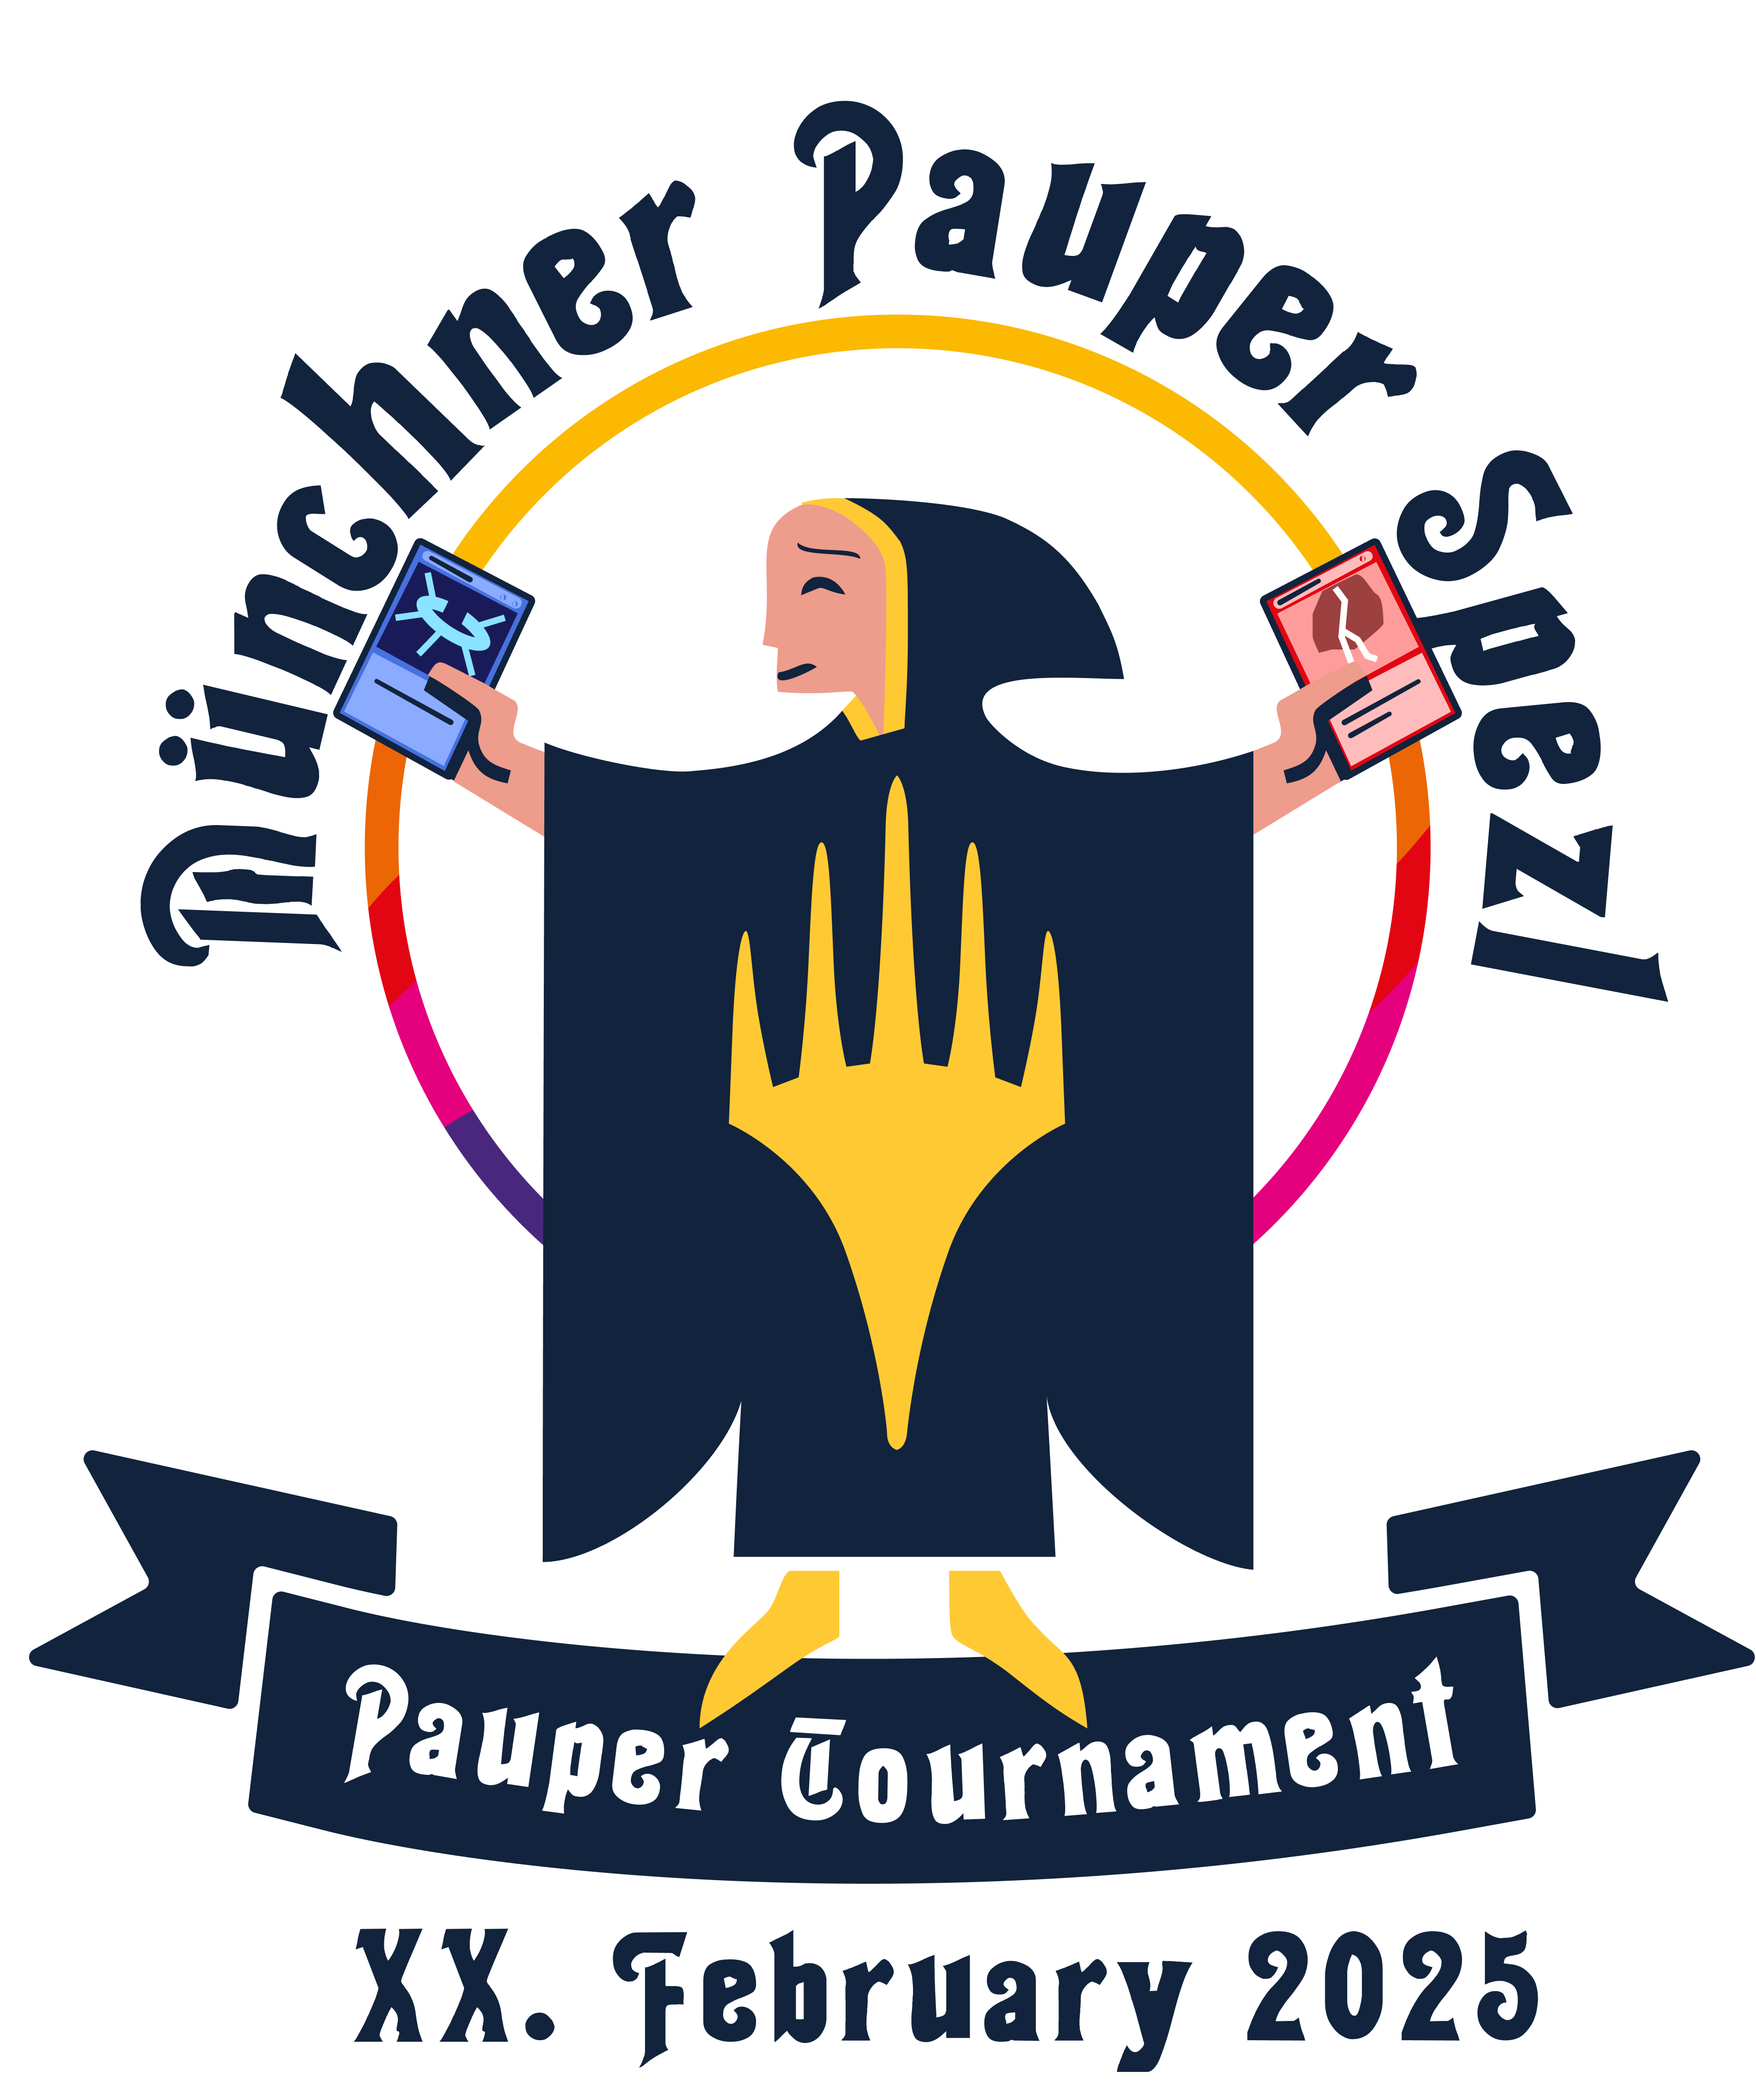
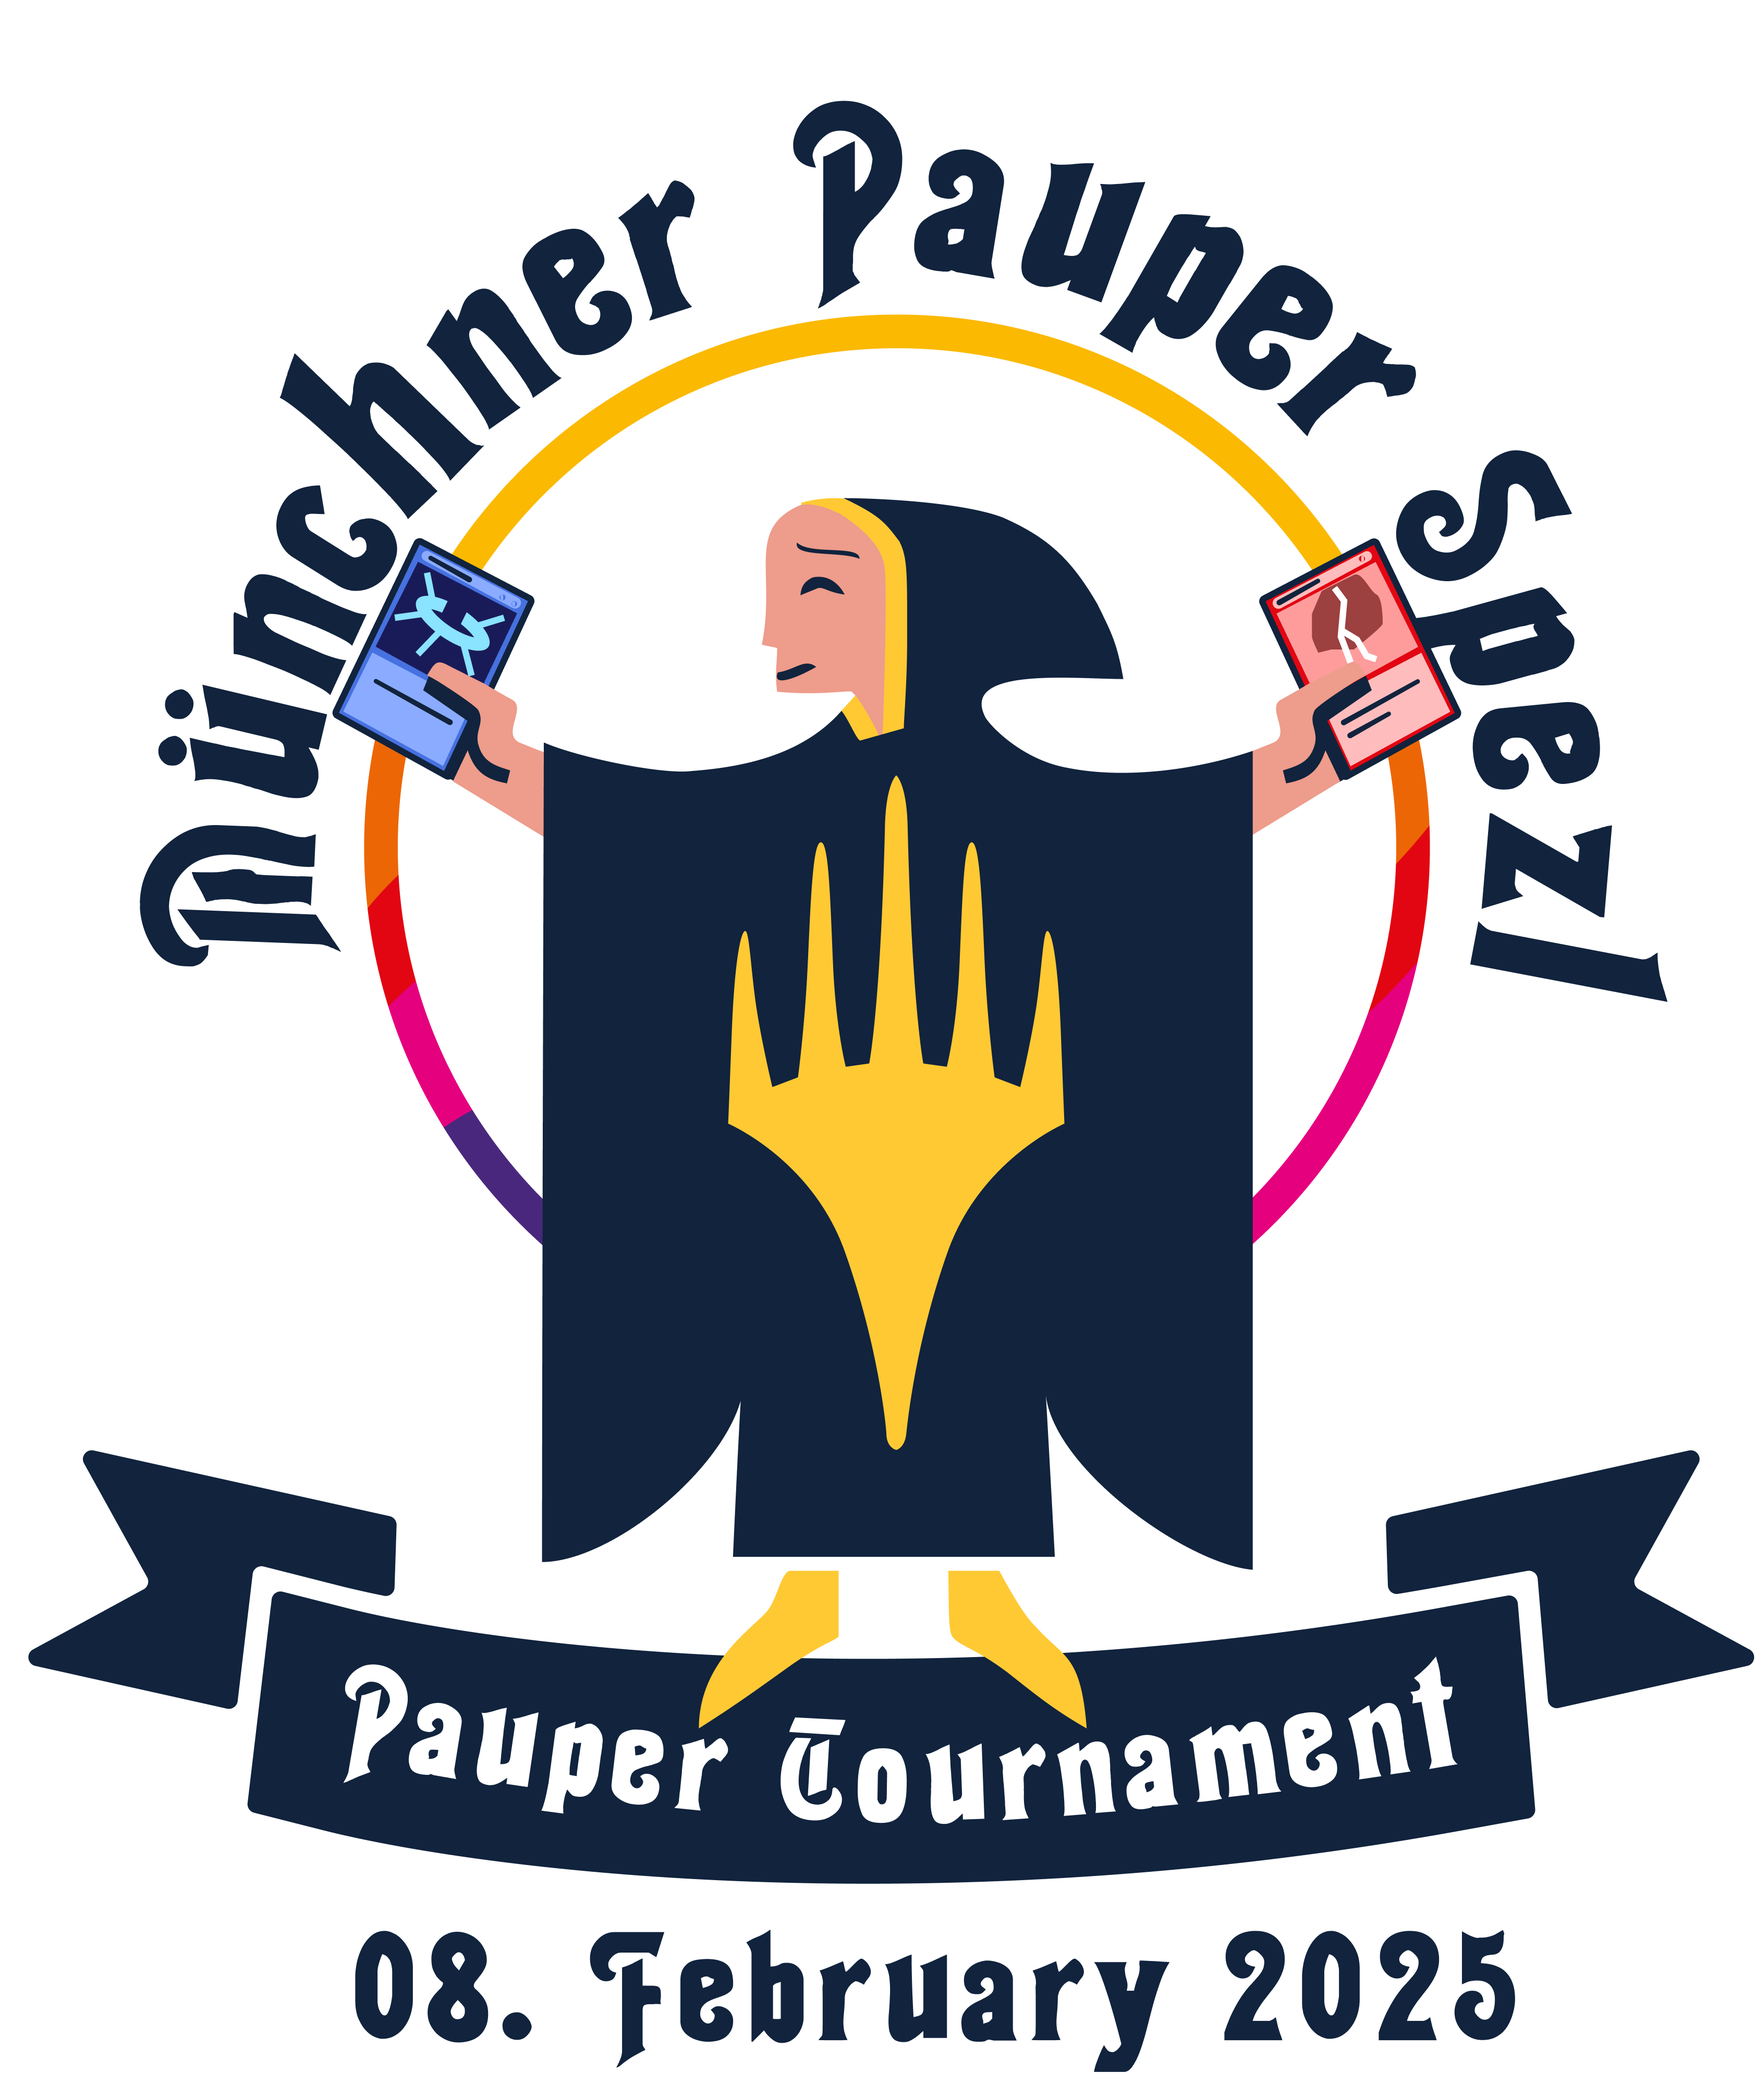
date added

Changed region(s): [[0.3429, 0.9062, 0.8729, 1.0], [0.1871, 0.9062, 0.3118, 1.0], [0.717, 0.2812, 0.7482, 0.3125]]

diff --git a/index.html b/index.html
@@ -4,18 +4,18 @@
 <head>
     <meta charset="UTF-8">
     <meta name="viewport" content="width=device-width, initial-scale=1.0">
-    <title>Magic: The Gathering™ Pauper Tournament on XX. February 2025</title>
-    <meta name="title" content="Magic: The Gathering™ Pauper Tournament on XX. February 2025" />
+    <title>Magic: The Gathering™ Pauper Tournament on 08. February 2025</title>
+    <meta name="title" content="Magic: The Gathering™ Pauper Tournament on 08. February 2025" />
     <meta name="description" content=" The Pauper Spezl warmly invites you to to our next big Magic: The Gathering™ Pauper tournament at Deck & Dice in Munich! 🎴✨ " />
     <meta property="og:type" content="website" />
     <meta property="og:url" content="https://pauper-spezl.de/" />
-    <meta property="og:title" content="Magic: The Gathering™ Pauper Tournament on XX. February 2025" />
+    <meta property="og:title" content="Magic: The Gathering™ Pauper Tournament on 08. February 2025" />
     <meta property="og:description" content=" The Pauper Spezl warmly invites you to to our next big Magic: The Gathering™ Pauper tournament at Deck & Dice in Munich! 🎴✨ " />
     <meta property="og:image" content="https://pauper-spezl.de/img/preview.png" />
     <meta name="twitter:card" content="summary_large_image" />
     <meta name="twitter:site" content="@DennHa" />
     <meta name="twitter:url" content="https://pauper-spezl.de/" />
-    <meta name="twitter:title" content="Magic: The Gathering™ Pauper Tournament on XX. February 2025" />
+    <meta name="twitter:title" content="Magic: The Gathering™ Pauper Tournament on 08. February 2025" />
     <meta name="twitter:description" content=" The Pauper Spezl warmly invites you to to our next big Magic: The Gathering™ Pauper tournament at Deck & Dice in Munich! 🎴✨ " />
     <meta name="twitter:image" content="https://pauper-spezl.de/img/preview.png" />
 
@@ -39,7 +39,7 @@
                     
                     <div class="header-text">
                         <h1 id="title">Munich’s Premiere Magic: The Gathering™ Pauper Tournament</h1>
-                        <h2 id="subtitle"> Pauper Spezl Tournament #1 <br> XX February 2025</h2>
+                        <h2 id="subtitle"> Pauper Spezl Tournament #1 <br> 08. February 2025</h2>
                     </div>
                     <div class="cta">
                         <div class="cta-container">
